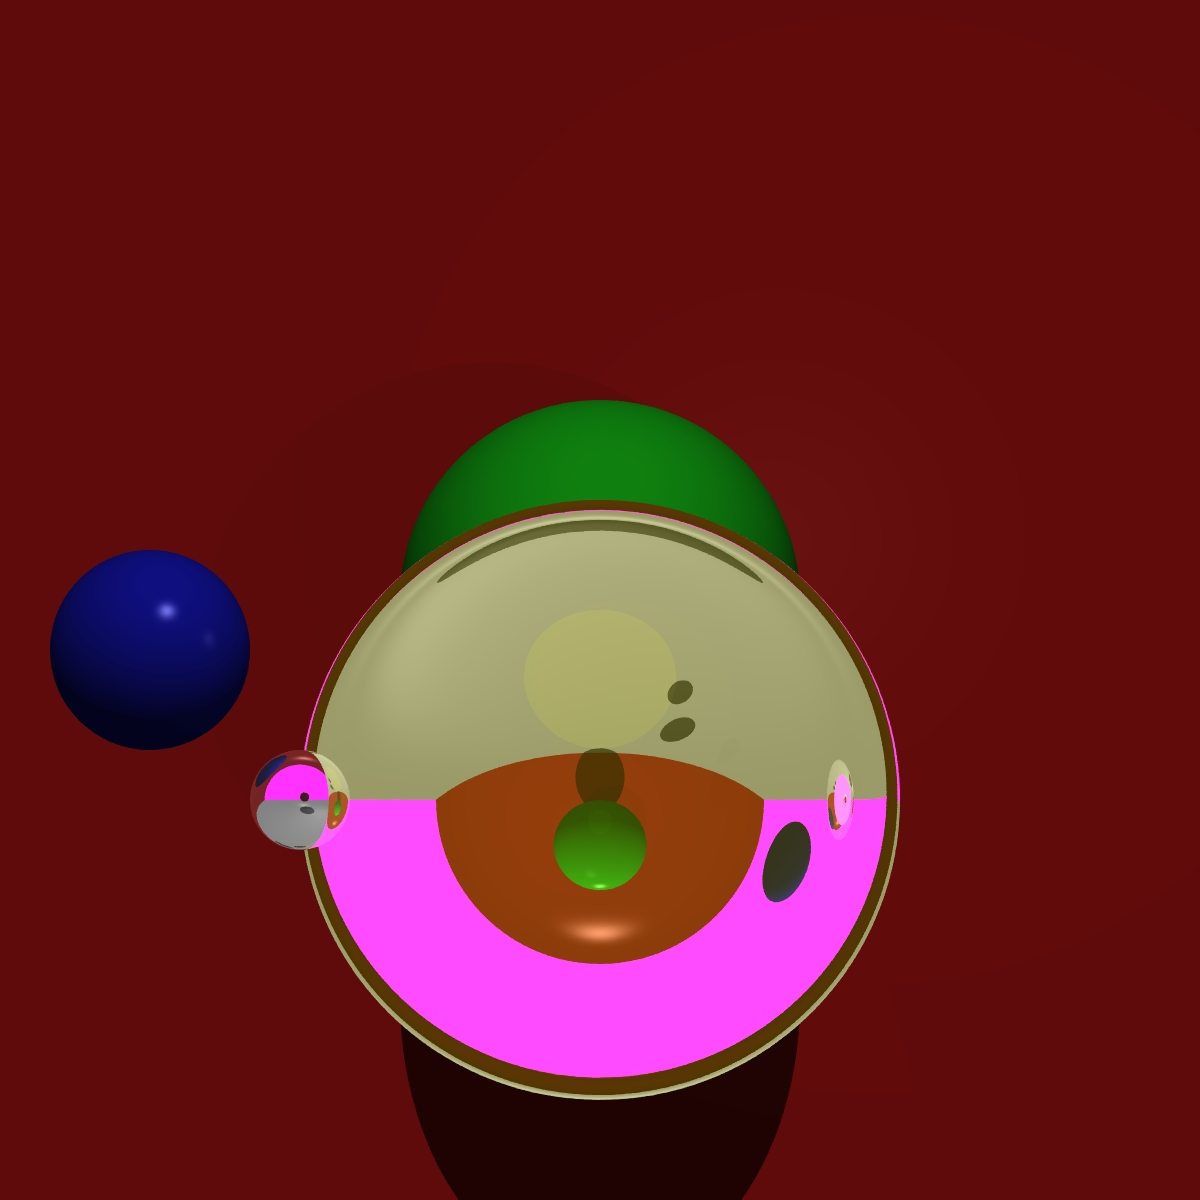
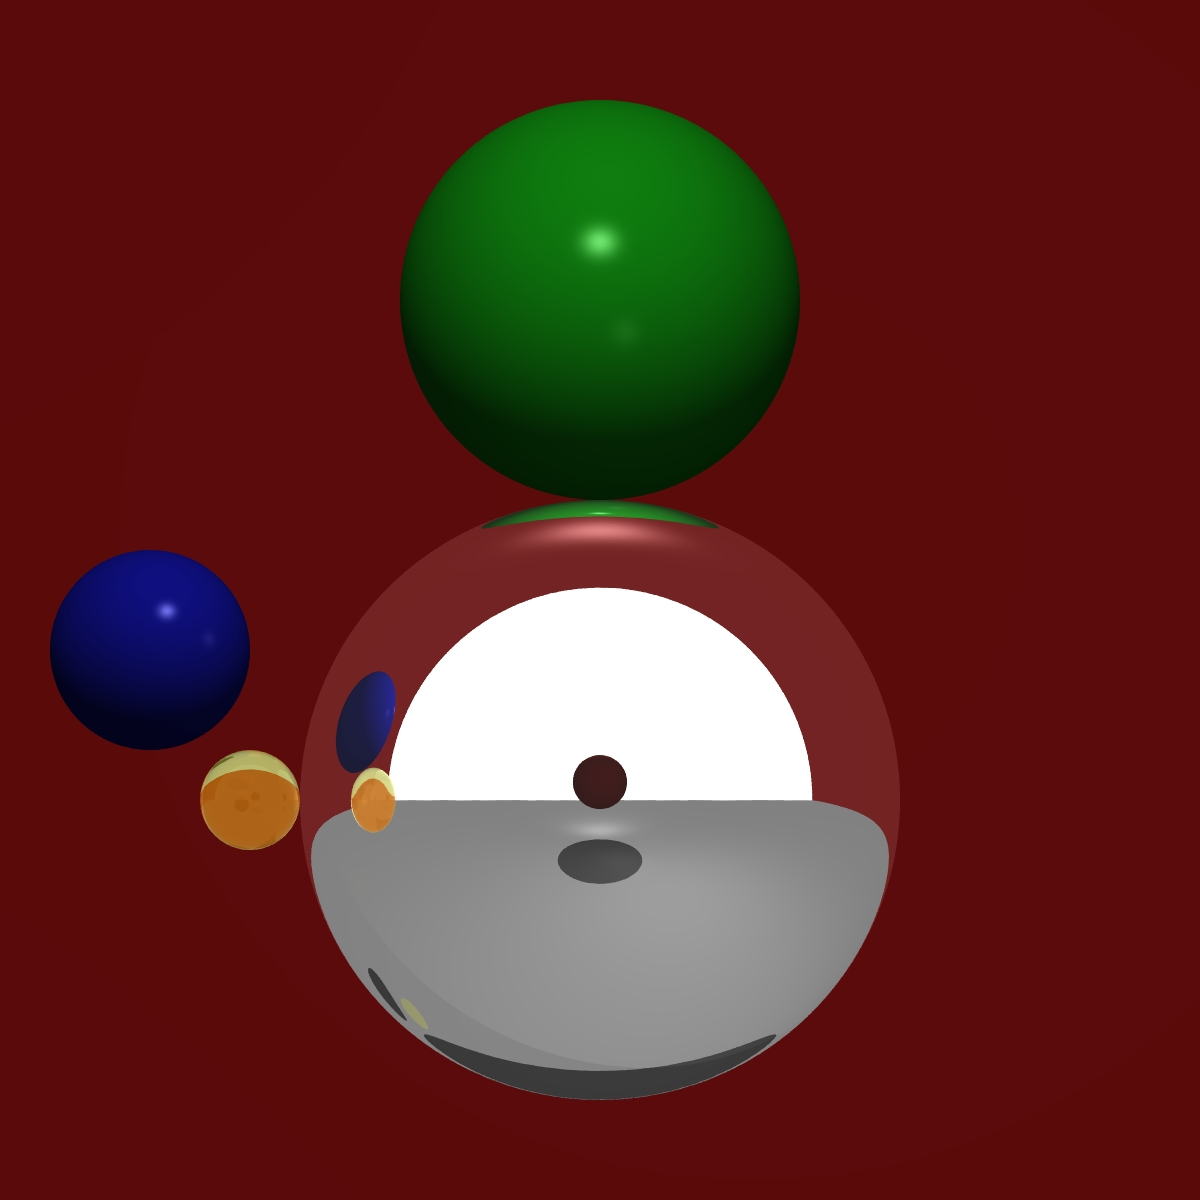
transparent ok

diff --git a/Src/Primitive.cpp b/Src/Primitive.cpp
@@ -4,7 +4,7 @@
 
 std::vector<Primitive*> Primitive::objectList = std::vector<Primitive*>();
 std::vector<Light*> Light::lightList = std::vector<Light*>();
-Vec3f Primitive::defaultColor = Vec3f{1, 0.1f, 1};
+Vec3f Primitive::defaultColor = Vec3f{1, 1, 1};
 
 //maybe too costly in time
 bool sortByDepth(const Primitive& a, const Primitive& b)
@@ -53,7 +53,7 @@ ColorImage* Primitive::draw(const ColorImage& img, Camera cam, int samples) {
 }
 
 Vec3f Primitive::definitiveColor(Vec3f orig, Vec3f dir, Vec3f camPos, int depth) {
-    if (depth == 0) {
+    if (depth <= 0) {
         return defaultColor;
     }
     
@@ -84,7 +84,7 @@ Vec3f Primitive::definitiveColor(Vec3f orig, Vec3f dir, Vec3f camPos, int depth)
             
             break;
         case MaterialType::TRANSPARENT:
-            return objectList[index]->transparentCalculation(fragPos, camPos, dir, depth) + objectList[index]->mat.ambient * objectList[index]->mat.alpha;
+            return objectList[index]->transparentCalculation(fragPos, camPos, dir, depth) + objectList[index]->mat.ambient * (objectList[index]->mat.alpha / 2.0f);
 
             break;
         case MaterialType::REFLECTIVE:
@@ -106,22 +106,23 @@ Vec3f Primitive::transparentCalculation(Vec3f fragPos, Vec3f camPos, Vec3f dir, 
     double ri = retrieveNormalDir(normal, dir) ? 1.0 / mat.ior : mat.ior;
     double cosTheta = std::fmin((-dir).dot(normal), 1.0);
     double sinTheta = std::sqrt(1.0 - cosTheta * cosTheta);
-    bool cannotRefract = ri * sinTheta > 1.0f;
-    double kr = Material::reflectance(cosTheta, ri);
+    bool canRefract = ri * sinTheta < 1.0f;
+    float kr = Material::reflectance(cosTheta, ri);
 
-    Vec3f newDir;
     Vec3f color;
+    Vec3f reflectColor{0,0,0};
+    Vec3f refractColor{0,0,0};
     depth -= 1;
+
+    Vec3f reflectDir = (dir.reflect(normal)).normalize();
+    reflectColor = definitiveColor(fragPos, reflectDir, camPos, depth);
     
-    if (cannotRefract) {
-        newDir = (dir.reflect(normal)).normalize();
-        color = definitiveColor(fragPos, newDir, camPos, depth);
+    if (canRefract) {
+        Vec3f refractDir = dir.refract(normal, ri);
+        refractColor = definitiveColor(fragPos, refractDir, camPos, depth);
     }
-    else {
-        //maybe a problem with the sign
-        newDir = dir.refract(normal, -ri);
-        color = definitiveColor(fragPos, newDir, camPos, depth);
-    }
+
+    color = reflectColor * kr + refractColor * (1.0f - kr);
 
     return color;
 }
@@ -150,7 +151,7 @@ Vec3f Primitive::diffuseCalculation(Vec3f fragPos, Vec3f camPos, double distance
                             shadowAlpha = 1;
                             break;
                         }
-                        lightColor = lightColor + ((Vec3f)objectList[u]->mat.ambient * objectList[u]->mat.alpha);
+                        lightColor = lightColor - ((Vec3f() - (Vec3f)objectList[u]->mat.ambient) * objectList[u]->mat.alpha);
                     }
                     else {
                         shadowAlpha = 1;
@@ -171,7 +172,7 @@ Vec3f Primitive::diffuseCalculation(Vec3f fragPos, Vec3f camPos, double distance
                             shadowAlpha = 1;
                             break;
                         }
-                        lightColor = lightColor + ((Vec3f)objectList[u]->mat.ambient * objectList[u]->mat.alpha);
+                        lightColor = lightColor - ((Vec3f() - (Vec3f)objectList[u]->mat.ambient) * objectList[u]->mat.alpha);
                     }
                     else {
                         shadowAlpha = 1;

diff --git a/Src/main.cpp b/Src/main.cpp
@@ -41,7 +41,7 @@ int main(int argc, char* argv [])
         Circle c0(Vec3f{0, 0, -310}, 300, Mc0);
 
         Material Mc4 {Color::colorFromFloat(1, 1, 0)};
-        Mc4.alpha = 0.1f;
+        Mc4.alpha = 0.3f;
         Mc4.ior = 1.5f;
         Mc4.type = MaterialType::TRANSPARENT;
         Material Mc1 {Color::colorFromFloat(0.1, 0.1, 0.1)};
@@ -54,7 +54,7 @@ int main(int argc, char* argv [])
             Color::colorFromFloat(0.633, 0.727811, 0.633),
             0.6
         };
-        Circle c2(Vec3f{0, 0, 2000}, 200, Mc2);
+        Circle c2(Vec3f{0, 300, 2000}, 200, Mc2);
 
         Material Mc3 {
             Color::colorFromFloat(0.0215, 0.0215, 0.1745),
@@ -64,7 +64,7 @@ int main(int argc, char* argv [])
         };
         Circle c3(Vec3f{-450, -50, 1420}, 100, Mc3);
         
-        Circle c4(Vec3f{-300, -200, 1320}, 50, Mc1);
+        Circle c4(Vec3f{-350, -200, 1320}, 50, Mc1);
         Material Mc5 {
             Color::colorFromFloat(0.20725, 0.20725, 0.20725),
             Color::colorFromFloat(0.7, 0.7, 0.7),
@@ -73,9 +73,9 @@ int main(int argc, char* argv [])
         };
         Plane p1(Vec3f{0, -600, 0}, Vec3f{0, 1, 0}, Mc5);
         //Plane p2(Vec3f{600, 0, 0}, Vec3f{-1, 0, 0}, Mc2);
-//        Plane p3(Vec3f{0, 600, 0}, Vec3f{0, -1, 0}, Mc1);
+        //Plane p3(Vec3f{0, 600, 0}, Vec3f{0, -1, 0}, Mc1);
         //Plane p4(Vec3f{-600, 0, 0}, Vec3f{1, 0, 0}, Mc2);
-        Plane p5(Vec3f{0, 0, 2400}, Vec3f{0, 0, -1}, Mc0);
+        Plane p5(Vec3f{0, 0, 5800}, Vec3f{0, 0, -1}, Mc0);
     
         //our camera defines our final view
         Camera cam {

diff --git a/Src/Utils.hpp b/Src/Utils.hpp
@@ -62,10 +62,10 @@ struct Vec3 {
         return *this - v * 2 * this->dot(v);
     };
 
-    Vec3<t> refract(const Vec3<t> v, double etaiOverEtao) const {
-        float cosTheta = std::fmin((-*this).dot(v), 1.0f);
-        Vec3<t> rOutPerp = (*this + v * cosTheta) * (float)etaiOverEtao;
-        Vec3<t> rOutPara = v * - (float)std::sqrt(std::fabs(1.0 - rOutPerp.norm2()));
+    Vec3<t> refract(const Vec3<t> normal, double etaiOverEtao) const {
+        float cosTheta = std::fmin((-*this).dot(normal), 1.0f);
+        Vec3<t> rOutPerp = ((*this) + normal * cosTheta) * (float)etaiOverEtao;
+        Vec3<t> rOutPara = normal * - (float)std::sqrt(std::fabs(1.0 - rOutPerp.norm2()));
         return rOutPerp + rOutPara;
     };
     

diff --git a/Src/Misc.hpp b/Src/Misc.hpp
@@ -52,7 +52,7 @@ struct Material {
 
     MaterialType type = MaterialType::DIFFUSE;
 
-    static double reflectance(double cosine, double refractionIndex) {
+    static float reflectance(double cosine, double refractionIndex) {
         float r0 = (1 - refractionIndex) / (1 + refractionIndex);
         r0 *= r0;
         return r0 + (1 - r0) * std::pow((1 - cosine), 5);
